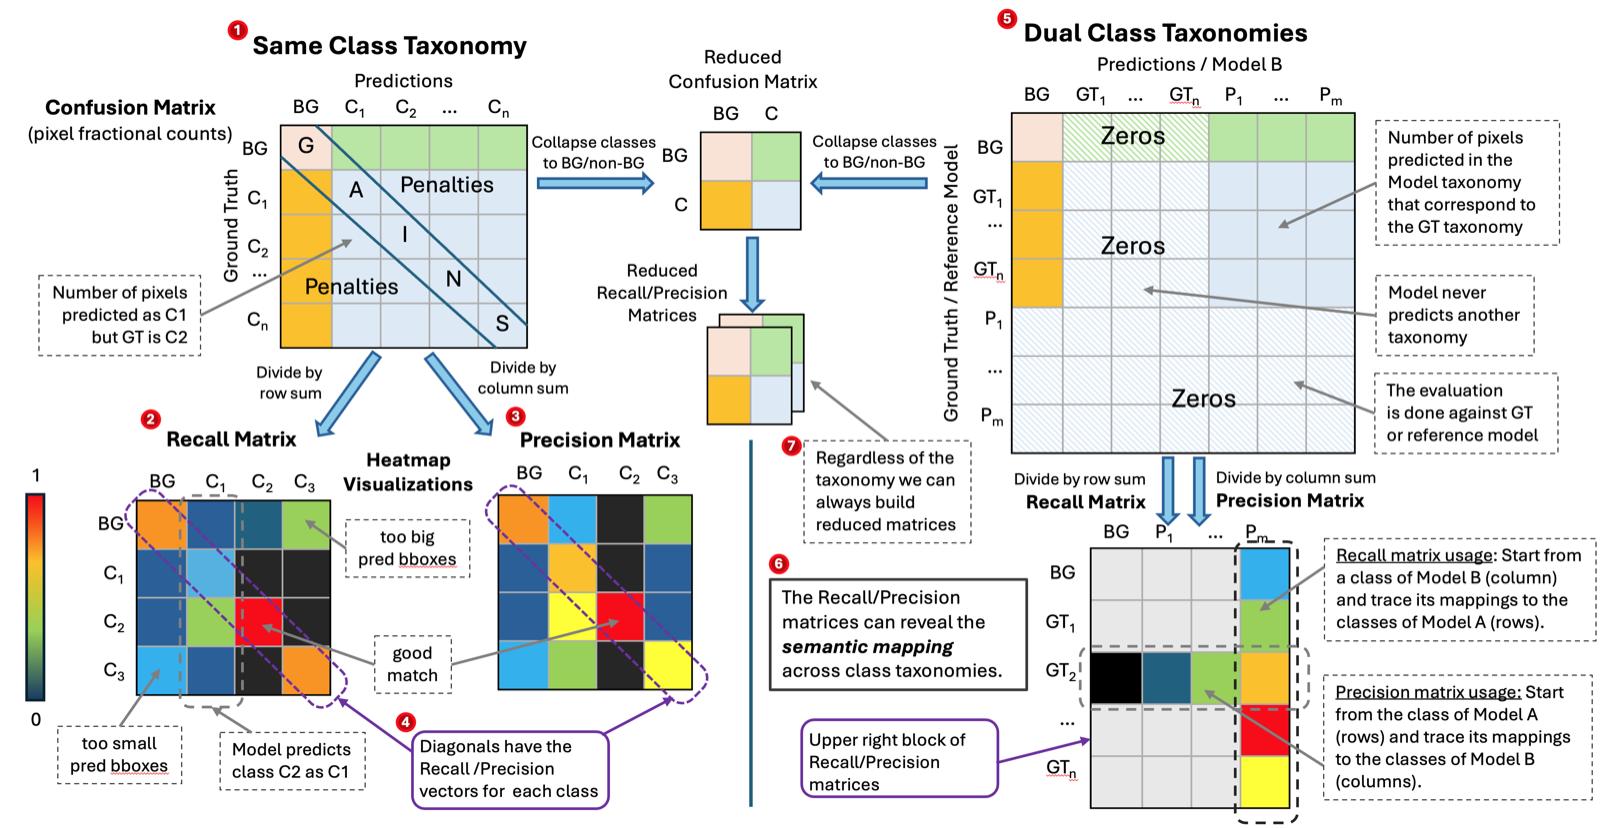
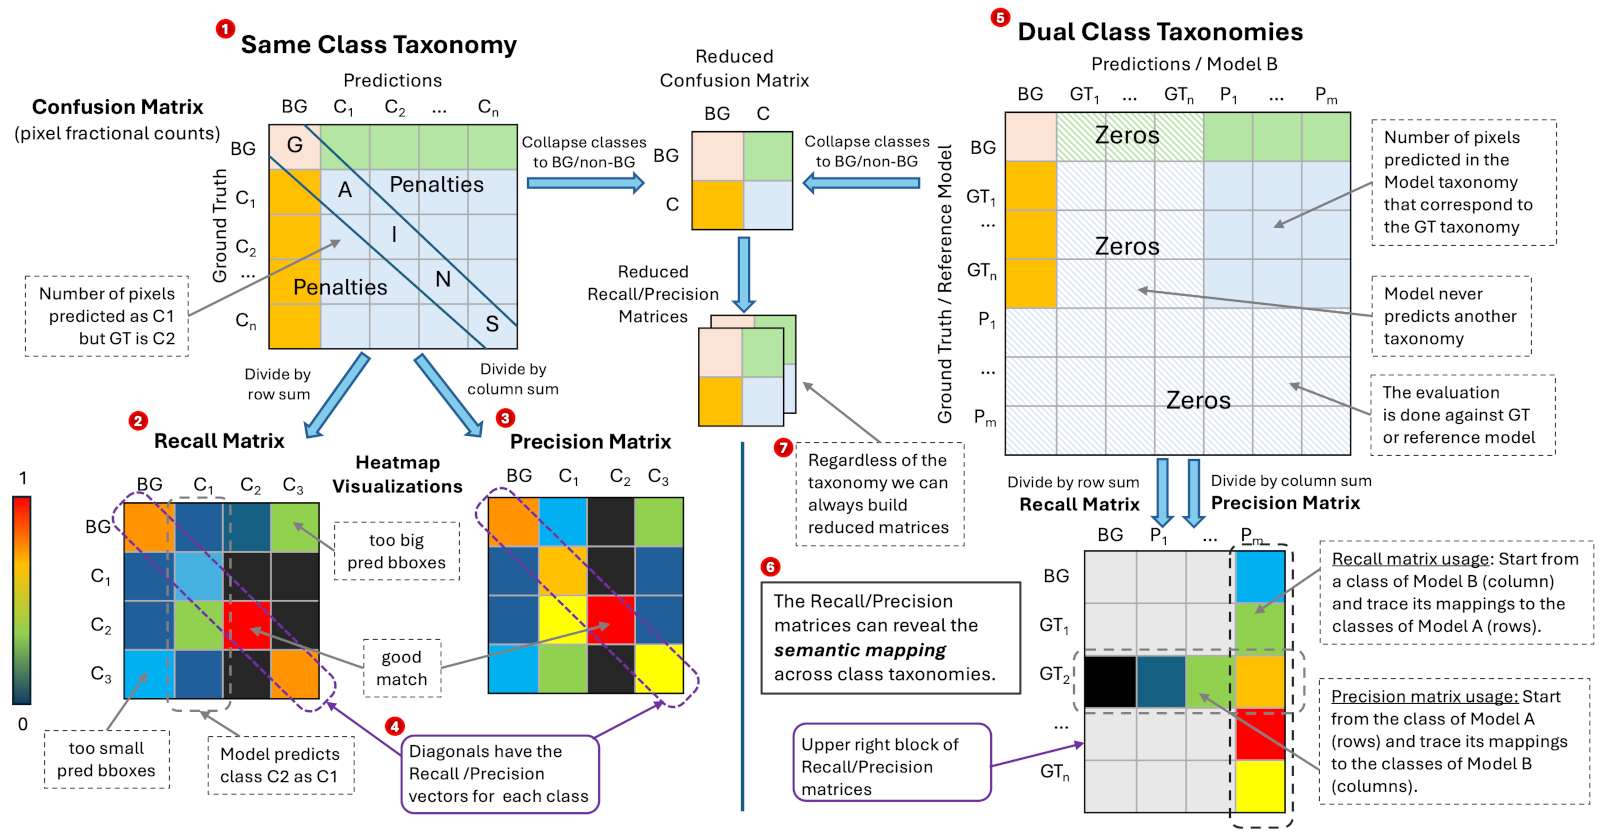
docs: TORE blog. Fix the multiple taxonomies screenshot. Minor text improvements.

Changed region(s): [[0.0, 0.0, 1.0, 0.9964], [0.0, 0.5737, 0.0312, 0.8756]]

diff --git a/blog/20260505_10_taxonomy-invariant-object-recognition-evaluation-TORE/post.md b/blog/20260505_10_taxonomy-invariant-object-recognition-evaluation-TORE/post.md
@@ -387,6 +387,8 @@ This allows a model to be evaluated on a dataset that uses different classes, as
 Via concrete examples we showcased how to use the confusion, recall and precision matrices and understand where the predictions of two models match and where they differ.
 Lastly we showed an efficient TORE implementation that accelerates the runtime performance of the metric via SIMD operations and parallelism.
 
+TORE has been open sourced as part of the [docling-metrics package][1].
+
 
 ## 10. References
 